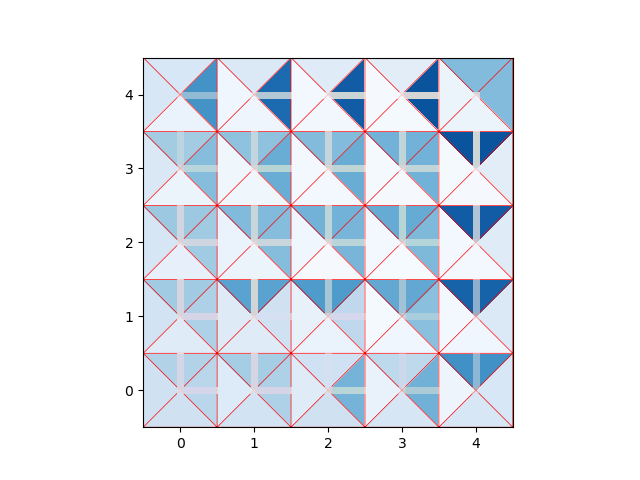
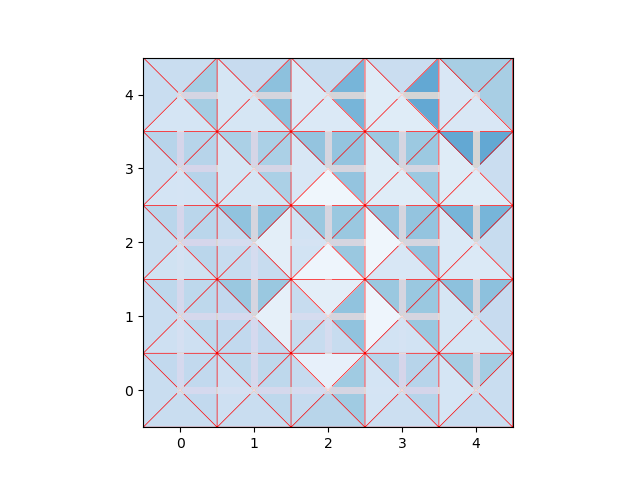
updates

Changed region(s): [[0.2188, 0.125, 0.8125, 0.875]]

diff --git a/src/main.py b/src/main.py
@@ -95,8 +95,8 @@ def sttl_obstacle_avoid(D, goal, avoid_states):
 def main():
     # Grid-world setup parameters
     grid_size = 5 # grid-world size
-    p_slip = 0.3 # slip. with probability p_slip, agent chooses other 3 actions
-    avoid_states = [7, 8]
+    p_slip = 0.000003 # slip. with probability p_slip, agent chooses other 3 actions. Default 0.3
+    avoid_states = [7, 12]
     
     '''
     Ground-truth MDP reward:
@@ -109,7 +109,7 @@ def main():
     # Generate MCE-IRL rewards from demonstrations
     reward_mce, world, goal = I.mce_irl(grid_size, p_slip, avoid_states)
 
-    discount = 0.7 # same as gamma for value iteration
+    discount = 0.99 # same as gamma for value iteration. Default 0.7
     value = S.value_iteration(world.p_transition, reward_mce, discount)
     weighting = lambda x: x**1 # giving importance to sub-optimal actions
     policy = S.stochastic_policy_from_value(world, value, w=weighting)
@@ -120,23 +120,23 @@ def main():
     # print("Policy Exec\n", policy_exec)
 
     # Randomly sample policies from the learned reward function
-    D = []
-    np.random.seed(0)
-    n_samples = 20
-    for _ in range(n_samples):
-        start = np.random.randint(0, 16)
-        sample = T.generate_trajectory(world, policy_exec, start, goal)
-        # print("Start: %d, Policy:" %(start))
-        D.append(sample)
+    # D = []
+    # np.random.seed(0)
+    # n_samples = 20
+    # for _ in range(n_samples):
+    #     start = np.random.randint(0, 16)
+    #     sample = T.generate_trajectory(world, policy_exec, start, goal)
+    #     # print("Start: %d, Policy:" %(start))
+    #     D.append(sample)
 
-    print("\nTotal samples: %d\n" %(n_samples))
-    # Compute the robustness of goal-reach STTL
-    rho = sttl_goal_reach(D, goal)
-    print("StTL goal-reach robustness = %.2f\n" % (rho))
+    # print("\nTotal samples: %d\n" %(n_samples))
+    # # Compute the robustness of goal-reach STTL
+    # rho = sttl_goal_reach(D, goal)
+    # print("StTL goal-reach robustness = %.2f\n" % (rho))
 
-    # Compute the robustness of obstacle avoidance STTL
-    rho = sttl_obstacle_avoid(D, goal, avoid_states)
-    print("StTL obstacle-avoidance robustness = %.2f\n" % (rho))
+    # # Compute the robustness of obstacle avoidance STTL
+    # rho = sttl_obstacle_avoid(D, goal, avoid_states)
+    # print("StTL obstacle-avoidance robustness = %.2f\n" % (rho))
 
 if __name__ == "__main__":
     main()

diff --git a/src/mce_irl.py b/src/mce_irl.py
@@ -23,7 +23,7 @@ def setup_mdp(GRID_SIZE, p_slip, avoid_states):
 
     reward = np.ones(world.n_states)
 
-    reward[-1] = 10.0
+    reward[-1] = 2.0
 
     # Define some obstacles or avoid regions
     for s in avoid_states:
@@ -41,7 +41,7 @@ def generate_trajectories(world, reward, terminal):
     Generate some "expert" trajectories.
     """
     # parameters
-    n_trajectories = 200
+    n_trajectories = 1000
     print("\nNumber of experts: %d\n" %(n_trajectories))
     discount = 0.7
     weighting = lambda x: x**5
